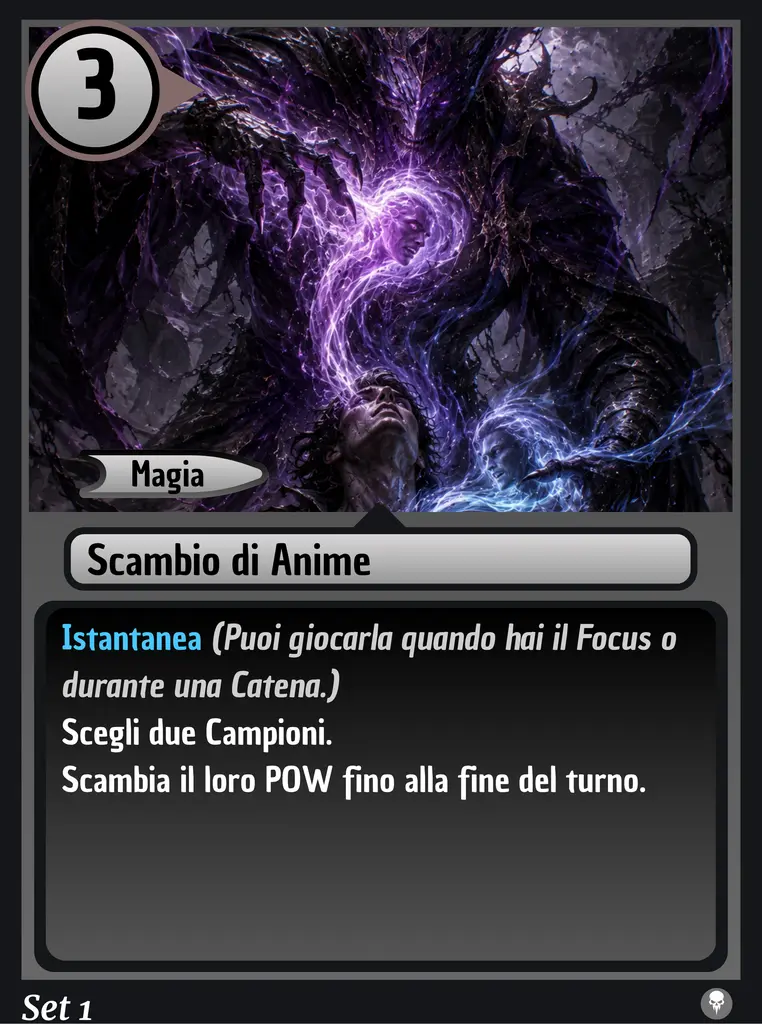
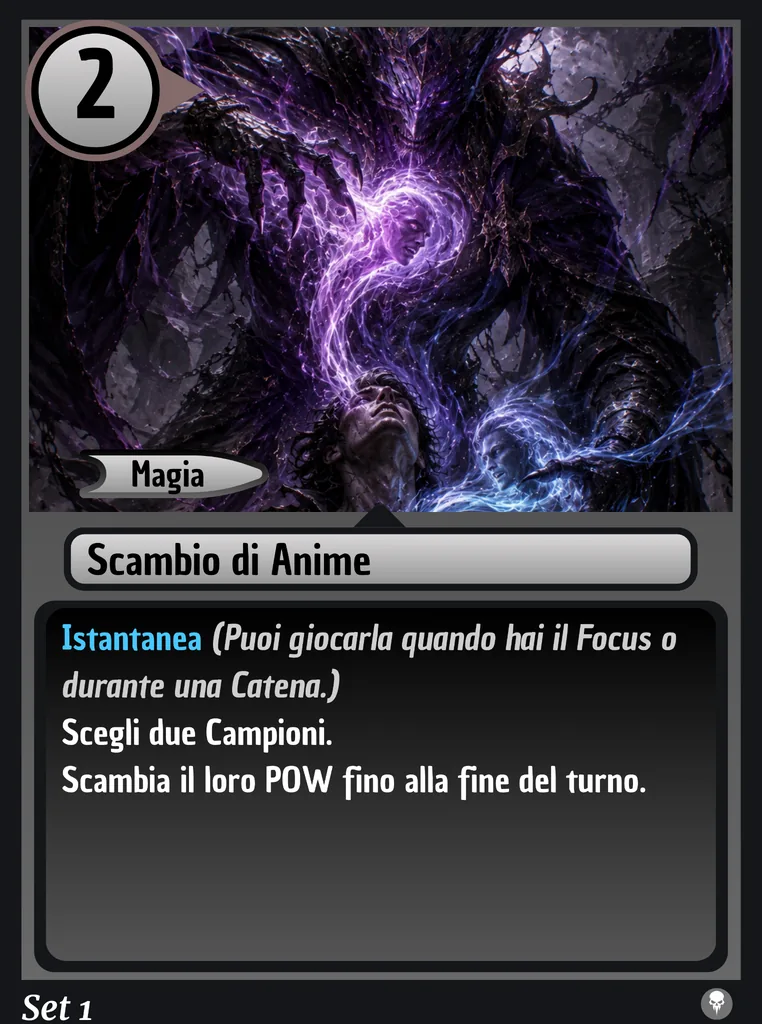
Reduce Scambio di Anime cost to 2 and replace optimized artwork

Changed region(s): [[0.0906, 0.0625, 0.1509, 0.125], [0.4528, 0.75, 0.4829, 0.7812]]

diff --git a/soulforge/index.html b/soulforge/index.html
@@ -18,7 +18,7 @@
     const fixes={'â€¢':'•','â€”':'—','â†’':'→','â€™':'’','â€¦':'…','â†‘':'↑','â†“':'↓','PrioritÃ ':'Priorità','sarÃ ':'sarà','lâ€™':'l’'};
     for(const [bad,good] of Object.entries(fixes)) html=html.split(bad).join(good);
     html=html.replace('</head>','<link rel="stylesheet" href="/ui-v2.css?v=4"><link rel="stylesheet" href="/grave-targets-v4.css?v=1"><link rel="stylesheet" href="/interaction-v5.css?v=1"><link rel="stylesheet" href="/layout-v9.css?v=1"><link rel="stylesheet" href="/hand-v11.css?v=3"><link rel="stylesheet" href="/set1-v18.css?v=1"><link rel="stylesheet" href="/blue-v22.css?v=1"><link rel="stylesheet" href="/deck-builder-v18.css?v=2"><link rel="stylesheet" href="/deck-builder-v22.css?v=4"><link rel="stylesheet" href="/attack-arrow-v20.css?v=1"><link rel="stylesheet" href="/fantasy-board-v29.css?v=1"><link rel="stylesheet" href="/fantasy-board-v29-fix.css?v=1"><link rel="stylesheet" href="/fantasy-board-v30.css?v=1"><link rel="stylesheet" href="/fantasy-board-v31.css?v=1"><link rel="stylesheet" href="/fantasy-board-v32.css?v=1"><link rel="stylesheet" href="/fantasy-board-v33.css?v=1"><link rel="stylesheet" href="/fantasy-board-v34.css?v=1"><link rel="stylesheet" href="/preview-v35.css?v=1"><link rel="stylesheet" href="/fantasy-board-v36.css?v=1"><link rel="stylesheet" href="/fantasy-board-v37.css?v=1"><link rel="stylesheet" href="/fantasy-board-v38.css?v=1"><link rel="stylesheet" href="/fantasy-board-v39.css?v=1"><link rel="stylesheet" href="/coin-hand-v40.css?v=1"><link rel="stylesheet" href="/card-hud-v41.css?v=3"><link rel="stylesheet" href="/hand-position-v74.css?v=1"></head>');
-    html=html.replace('</body>','<script src="/ui-v2.js?v=6"><\/script><script src="/combat-rules-v28.js?v=2"><\/script><script src="/right-click-preview.js?v=7"><\/script><script src="/grave-targets-v4.js?v=2"><\/script><script src="/interaction-v5.js?v=2"><\/script><script src="/targeting-v8.js?v=2"><\/script><script src="/specchio-stack-fix.js?v=1"><\/script><script src="/stability-v10.js?v=1"><\/script><script src="/hand-v11.js?v=4"><\/script><script src="/alta-marea-v13.js?v=1"><\/script><script src="/selection-v16.js?v=1"><\/script><script src="/set1-v17.js?v=4"><\/script><script src="/blue-v22-loader.js?v=10"><\/script><script src="/deck-builder-v27-loader.js?v=9"><\/script><script src="/deck-builder-visual-fix-v71.js?v=10"><\/script><script src="/deck-preview-details-v76.js?v=1"><\/script><script src="/new-monsters-details-v78.js?v=3"><\/script><script src="/attack-arrow-v20.js?v=1"><\/script><script src="/rules-v23.js?v=2"><\/script><script src="/provocation-v24.js?v=4"><\/script><script src="/targeting-standard-v27.js?v=1"><\/script><script src="/fantasy-board-v29.js?v=2"><\/script><script src="/fantasy-board-v30.js?v=2"><\/script><script src="/fantasy-board-v31.js?v=3"><\/script><script src="/preview-conflict-v37.js?v=1"><\/script><script src="/preview-cleanup-v38.js?v=1"><\/script><script src="/coin-hand-v40.js?v=1"><\/script><script src="/card-hud-v41.js?v=2"><\/script><script src="/festa-art-v42.js?v=1"><\/script><script src="/combat-priority-v44.js?v=1"><\/script><script src="/turn-effects-v45.js?v=1"><\/script><script src="/new-cards-v46.js?v=10"><\/script><script src="/new-card-runtime-v47.js?v=4"><\/script><script src="/deck-builder-filters-v48.js?v=4"><\/script><script src="/rules-priority-grave-v49.js?v=4"><\/script><script src="/gameover-rematch-v50.js?v=1"><\/script><script src="/taglio-fiammante-v51.js?v=1"><\/script><script src="/nube-di-fuoco-v52.js?v=1"><\/script><script src="/orange-safe-v1.js?v=2"><\/script><script src="/orange-ui-v2.js?v=2"><\/script><script src="/compact-champions-v61.js?v=2"><\/script><script src="/pugno-target-v62.js?v=2"><\/script><script src="/champion-target-v63.js?v=1"><\/script><script src="/festa-fix-v64.js?v=1"><\/script><script src="/no-target-cast-v65.js?v=1"><\/script><script src="/game-interaction-lock-v66.js?v=1"><\/script><script src="/grave-art-v67.js?v=5"><\/script><script src="/scatola-incantata-v75.js?v=1"><\/script><script src="/new-set-v70.js?v=2"><\/script><script src="/new-set-art-v73.js?v=9"><\/script><script src="/latest-set-v82.js?v=2"><\/script><script src="/new-monsters-v77.js?v=2"><\/script><script src="/hand-input-v69.js?v=3"><\/script></body>');
+    html=html.replace('</body>','<script src="/ui-v2.js?v=6"><\/script><script src="/combat-rules-v28.js?v=2"><\/script><script src="/right-click-preview.js?v=7"><\/script><script src="/grave-targets-v4.js?v=2"><\/script><script src="/interaction-v5.js?v=2"><\/script><script src="/targeting-v8.js?v=2"><\/script><script src="/specchio-stack-fix.js?v=1"><\/script><script src="/stability-v10.js?v=1"><\/script><script src="/hand-v11.js?v=4"><\/script><script src="/alta-marea-v13.js?v=1"><\/script><script src="/selection-v16.js?v=1"><\/script><script src="/set1-v17.js?v=4"><\/script><script src="/blue-v22-loader.js?v=10"><\/script><script src="/deck-builder-v27-loader.js?v=10"><\/script><script src="/deck-builder-visual-fix-v71.js?v=10"><\/script><script src="/deck-preview-details-v76.js?v=1"><\/script><script src="/new-monsters-details-v78.js?v=3"><\/script><script src="/attack-arrow-v20.js?v=1"><\/script><script src="/rules-v23.js?v=2"><\/script><script src="/provocation-v24.js?v=4"><\/script><script src="/targeting-standard-v27.js?v=1"><\/script><script src="/fantasy-board-v29.js?v=2"><\/script><script src="/fantasy-board-v30.js?v=2"><\/script><script src="/fantasy-board-v31.js?v=3"><\/script><script src="/preview-conflict-v37.js?v=1"><\/script><script src="/preview-cleanup-v38.js?v=1"><\/script><script src="/coin-hand-v40.js?v=1"><\/script><script src="/card-hud-v41.js?v=2"><\/script><script src="/festa-art-v42.js?v=1"><\/script><script src="/combat-priority-v44.js?v=1"><\/script><script src="/turn-effects-v45.js?v=1"><\/script><script src="/new-cards-v46.js?v=10"><\/script><script src="/new-card-runtime-v47.js?v=4"><\/script><script src="/deck-builder-filters-v48.js?v=4"><\/script><script src="/rules-priority-grave-v49.js?v=4"><\/script><script src="/gameover-rematch-v50.js?v=1"><\/script><script src="/taglio-fiammante-v51.js?v=1"><\/script><script src="/nube-di-fuoco-v52.js?v=1"><\/script><script src="/orange-safe-v1.js?v=2"><\/script><script src="/orange-ui-v2.js?v=2"><\/script><script src="/compact-champions-v61.js?v=2"><\/script><script src="/pugno-target-v62.js?v=2"><\/script><script src="/champion-target-v63.js?v=1"><\/script><script src="/festa-fix-v64.js?v=1"><\/script><script src="/no-target-cast-v65.js?v=1"><\/script><script src="/game-interaction-lock-v66.js?v=1"><\/script><script src="/grave-art-v67.js?v=5"><\/script><script src="/scatola-incantata-v75.js?v=1"><\/script><script src="/new-set-v70.js?v=2"><\/script><script src="/new-set-art-v73.js?v=9"><\/script><script src="/latest-set-v82.js?v=3"><\/script><script src="/new-monsters-v77.js?v=2"><\/script><script src="/hand-input-v69.js?v=3"><\/script></body>');
     html=html.replace('<script src="/hand-input-v69.js?v=3"><\/script>','<script src="/target-images-v83.js?v=1"><\/script><script src="/new-monsters-wave15-v84.js?v=2"><\/script><script src="/hand-input-v69.js?v=3"><\/script>');
     html=html.replace('/blue-v22-loader.js?v=10','/blue-v22-loader.js?v=11');
     html=html.replace('</body>','<script type="module" src="/september-ui.js?v=4"><\/script></body>');

diff --git a/soulforge/deck-builder-v27-loader.js b/soulforge/deck-builder-v27-loader.js
@@ -14,7 +14,7 @@ const NEW=[
  ['shuriken','Shuriken','green','Magia','Base','shuriken.webp'],
  ['zampata_amichevole','Zampata amichevole','green','Magia','Istantanea','zampata-amichevole.webp'],
  ['offerta_maligna','Offerta Maligna','black','Magia','Base','offerta-maligna.webp'],
- ['scambio_di_anime','Scambio di Anime','black','Magia','Istantanea','scambio-di-anime.webp'],
+ ['scambio_di_anime','Scambio di Anime','black','Magia','Istantanea','scambio-di-anime.webp?rev=cost2-20260917'],
  ['visione_distorta','Visione Distorta','black','Magia','Base','visione-distorta.webp'],
  ['protettore_del_villaggio','Protettore del villaggio','blue','Magia','Istantanea','protettore-del-villaggio.webp'],
  ['valanga','Valanga','blue','Magia','Base','valanga.webp'],
@@ -43,7 +43,7 @@ Promise.all(parts.map(async p=>{const r=await fetch(p,{cache:'no-store'});if(!r.
  const costs={
   arrivano_i_pirati:0,colpo_di_cannone:2,galeone_fantasma:3,colpo_in_testa:3,bang:1,barile_esplosivo:0,taglio_fiammante:0,sfera_incandescente:0,corazza_esplosiva:0,occhio_di_drago:0,mano_del_caos:1,nube_di_fuoco:1,tornado_bollente:1,fendente_di_fuoco:1,berserk:2,
   furia_della_natura:1,shuriken:2,zampata_amichevole:2,fabbro_ninjitsu:1,spacca_corazze:1,tiro_rotante:0,stupido:0,riflesso:0,tutto_per_la_festa:0,taglio_ninjitsu:0,doppia_katana:1,alta_marea:1,albero_della_vita:1,sguardo_ninjitsu:1,mille_lame:12,
-  offerta_maligna:0,scambio_di_anime:3,visione_distorta:5,richiamo_del_branco:2,circo_infestato:0,scatola_incantata:3,evocatore_anime_vacue:0,anima_esplosiva:0,sacrificio:0,collasso:0,spacca_ossa:1,eclipse_fang:1,fino_alla_morte:1,mietitore:2,ammazza_morte:3,
+  offerta_maligna:0,scambio_di_anime:2,visione_distorta:5,richiamo_del_branco:2,circo_infestato:0,scatola_incantata:3,evocatore_anime_vacue:0,anima_esplosiva:0,sacrificio:0,collasso:0,spacca_ossa:1,eclipse_fang:1,fino_alla_morte:1,mietitore:2,ammazza_morte:3,
   protettore_del_villaggio:1,valanga:2,esercito_tormenta_neve:3,grandine_brillante:1,cacciatrice_della_tempesta:2,tempesta_di_ghiaccio:0,flusso_gelido:0,freddo_puro:0,in_guardia:0,ali_del_protettore:0,staffa_del_mare:1,specchio_acqua:1,muro_di_ghiaccio:2,custode_dei_deboli:3,distruzione_totale:1,
   cavaliere_pioggia_frecce:0,forgia_nanica:1,guardia_reale:3,frecce_divine:0,loda_il_sole:0,parry:2,perfezione:1,pugno_in_faccia:0,spacca_teste:1,su_gli_scudi:1,alabardo:1,soldato_corrotto:2,legionario_troll:2,servo_del_sovrano:1,dono_ai_poveri:0
  };

diff --git a/soulforge/game-v59-loader.ts b/soulforge/game-v59-loader.ts
@@ -33,7 +33,7 @@ Object.assign(CARD_DEFS,{
  shuriken:{id:'shuriken',name:'Shuriken',color:'green',cost:2,speed:'base',type:'Magia',text:'Scegli un tuo Campione. Infliggi a un Campione nemico e a un Mostro danni pari al POW del Campione scelto.',effect:'v59_shuriken'},
  zampata_amichevole:{id:'zampata_amichevole',name:'Zampata amichevole',color:'green',cost:2,speed:'instant',type:'Magia',text:'Istantanea. Scegli un tuo Campione. Ottiene +2 POW fino alla fine del turno per ogni Mostro che hai ucciso in questo turno.',effect:'v59_zampata'},
  offerta_maligna:{id:'offerta_maligna',name:'Offerta Maligna',color:'black',cost:0,speed:'base',type:'Magia',text:'Scegli un Mostro, poi il tuo avversario sceglie un altro Mostro. Ogni giocatore uccide il Mostro che ha scelto.',effect:'v59_offerta'},
- scambio_di_anime:{id:'scambio_di_anime',name:'Scambio di Anime',color:'black',cost:3,speed:'instant',type:'Magia',text:'Istantanea. Scegli due Campioni. Scambia il loro POW fino alla fine del turno.',effect:'v59_scambio'},
+ scambio_di_anime:{id:'scambio_di_anime',name:'Scambio di Anime',color:'black',cost:2,speed:'instant',type:'Magia',text:'Istantanea. Scegli due Campioni. Scambia il loro POW fino alla fine del turno.',effect:'v59_scambio'},
  visione_distorta:{id:'visione_distorta',name:'Visione Distorta',color:'black',cost:5,speed:'base',type:'Magia',text:'Bandisci tutte le carte dal Mazzo dell’avversario.',effect:'v59_visione'},
  protettore_del_villaggio:{id:'protettore_del_villaggio',name:'Protettore del villaggio',color:'blue',cost:1,speed:'instant',type:'Magia',text:'Istantanea. Fornisci 3 Armatura a un Personaggio.',effect:'v59_protettore'},
  valanga:{id:'valanga',name:'Valanga',color:'blue',cost:2,speed:'base',type:'Magia',text:'Riduci di 2 il POW di tutti i Campioni nemici per questo turno.',effect:'v59_valanga'},

diff --git a/soulforge/latest-set-v82.js b/soulforge/latest-set-v82.js
@@ -3,7 +3,7 @@ const BASE='https://raw.githubusercontent.com/andreaamiraglia-svg/fanta-riftboun
 const ART={
  arrivano_i_pirati:'arrivano-i-pirati.webp',colpo_di_cannone:'colpo-di-cannone.webp',galeone_fantasma:'galeone-fantasma.webp',
  furia_della_natura:'furia-della-natura.webp',shuriken:'shuriken.webp',zampata_amichevole:'zampata-amichevole.webp',
- offerta_maligna:'offerta-maligna.webp?rev=ownership-v2',scambio_di_anime:'scambio-di-anime.webp',visione_distorta:'visione-distorta.webp',
+ offerta_maligna:'offerta-maligna.webp?rev=ownership-v2',scambio_di_anime:'scambio-di-anime.webp?rev=cost2-20260917',visione_distorta:'visione-distorta.webp',
  protettore_del_villaggio:'protettore-del-villaggio.webp',valanga:'valanga.webp',esercito_tormenta_neve:'esercito-della-tormenta-di-neve.webp',
  cavaliere_pioggia_frecce:'cavaliere-della-pioggia-di-frecce.webp',forgia_nanica:'forgia-nanica.webp',
  legionario_troll:'legionario-troll.webp',guardia_reale:'guardia-reale.webp'
